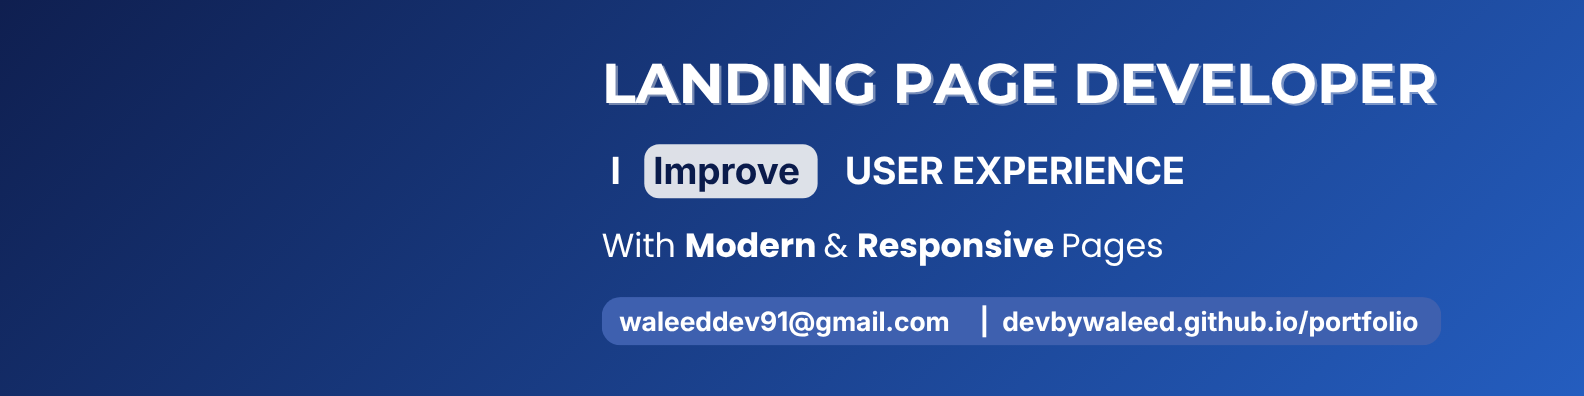
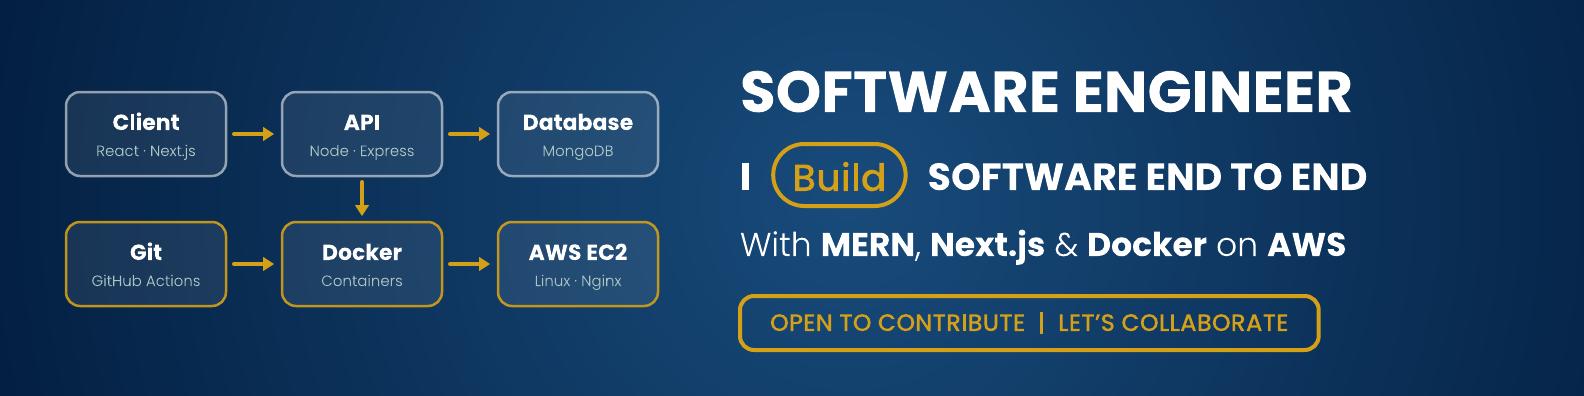
Update profile for latest projects

diff --git a/README.md b/README.md
@@ -1,115 +1,148 @@
-<img src="github-banner.png" alt="Banner Image"/> 
-
+<img src="github-banner.png" alt="Banner Image"/>
 
 <p align="center">
-  <img src="https://readme-typing-svg.herokuapp.com?font=Fira+Code&size=28&duration=3500&pause=500&color=00F0FF&center=true&vCenter=true&width=700&lines=Hi+%F0%9F%91%8B+I'm+Waleed+Ahmed;Frontend+Developer+%F0%9F%92%BB;Freelancer+%F0%9F%9A%80;Turning+Ideas+To+Reality" alt="Typing Animation" />
+  <picture>
+    <source media="(prefers-color-scheme: dark)" srcset="https://readme-typing-svg.herokuapp.com?font=Fira+Code&size=28&duration=3500&pause=500&color=00F0FF&center=true&vCenter=true&width=800&lines=Hi+%F0%9F%91%8B+I'm+Waleed+Ahmed;Software+Engineer+%F0%9F%9B%A0%EF%B8%8F;I+design,+build+and+deploy+full+stack+apps;I+solve+problems+with+DSA+%F0%9F%A7%A0">
+    <img src="https://readme-typing-svg.herokuapp.com?font=Fira+Code&size=28&duration=3500&pause=500&color=0E7490&center=true&vCenter=true&width=800&lines=Hi+%F0%9F%91%8B+I'm+Waleed+Ahmed;Software+Engineer+%F0%9F%9B%A0%EF%B8%8F;I+design,+build+and+deploy+full+stack+apps;I+solve+problems+with+DSA+%F0%9F%A7%A0" alt="Typing Animation" />
+  </picture>
 </p>
 
-<h3 align="center">Solving real-world problems by responsive and modern web experiences 🌐</h3>
+<h3 align="center">Turning real-world problems into reliable, deployed software</h3>
 
 ---
 
-### ✨ About Me
+### 👨💻 About Me
 
-Hi! I'm **Waleed Ahmad**, a **Frontend Developer & Freelancer from Pakistan 🇵🇰**.  
-I specialize in creating **responsive websites, interactive UIs, and optimized user experiences**.  
-I’m currently improving my skills in **React, Tailwind CSS, and modern JavaScript frameworks** to deliver scalable and professional web solutions.  
+I'm **Waleed Ahmed**, a **Software Engineering student at Virtual University of Pakistan** (Lahore, Pakistan 🇵🇰).
+
+- 🏗 I build **complete MERN and Next.js products**: database design, REST APIs, real-time features and polished interfaces
+- 🐳 I containerize apps with **Docker** and deploy them on **AWS EC2**
+- 🧩 I practice **data structures and algorithms** regularly and have completed the **Blind 75**
+- 🚀 About to start my **Final Year Project**
 
 ---
 
-### 🚀 Skills / Tech Stack
+### 🧰 Tech Stack
 
-<p align="center">
-  <img src="https://img.shields.io/badge/HTML5-E34F26?style=for-the-badge&logo=html5&logoColor=white"/> 
-  <img src="https://img.shields.io/badge/CSS3-1572B6?style=for-the-badge&logo=css3&logoColor=white"/> 
-  <img src="https://img.shields.io/badge/Bootstrap-563D7C?style=for-the-badge&logo=bootstrap&logoColor=white"/> 
-  <img src="https://img.shields.io/badge/Tailwind_CSS-38B2AC?style=for-the-badge&logo=tailwind-css&logoColor=white"/> 
-  <img src="https://img.shields.io/badge/JavaScript-F7DF1E?style=for-the-badge&logo=javascript&logoColor=black"/> 
-  <img src="https://img.shields.io/badge/React-61DAFB?style=for-the-badge&logo=react&logoColor=black"/> 
-  <img src="https://img.shields.io/badge/Python-3776AB?style=for-the-badge&logo=python&logoColor=white"/> 
-  <img src="https://img.shields.io/badge/Git-F05032?style=for-the-badge&logo=git&logoColor=white"/> 
-  <img src="https://img.shields.io/badge/GitHub-100000?style=for-the-badge&logo=github&logoColor=white"/> 
+**Languages**
+
+<p>
+  <img src="https://img.shields.io/badge/TypeScript-3178C6?style=for-the-badge&logo=typescript&logoColor=white"/>
+  <img src="https://img.shields.io/badge/JavaScript-F7DF1E?style=for-the-badge&logo=javascript&logoColor=black"/>
+  <img src="https://img.shields.io/badge/Python-3776AB?style=for-the-badge&logo=python&logoColor=white"/>
+</p>
+
+**Frontend**
+
+<p>
+  <img src="https://img.shields.io/badge/React-61DAFB?style=for-the-badge&logo=react&logoColor=black"/>
+  <img src="https://img.shields.io/badge/Next.js-000000?style=for-the-badge&logo=nextdotjs&logoColor=white"/>
+  <img src="https://img.shields.io/badge/Redux-764ABC?style=for-the-badge&logo=redux&logoColor=white"/>
+  <img src="https://img.shields.io/badge/Tailwind_CSS-38B2AC?style=for-the-badge&logo=tailwind-css&logoColor=white"/>
+</p>
+
+**Backend and Database**
+
+<p>
+  <img src="https://img.shields.io/badge/Node.js-339933?style=for-the-badge&logo=nodedotjs&logoColor=white"/>
+  <img src="https://img.shields.io/badge/Express.js-000000?style=for-the-badge&logo=express&logoColor=white"/>
+  <img src="https://img.shields.io/badge/Socket.IO-010101?style=for-the-badge&logo=socketdotio&logoColor=white"/>
+  <img src="https://img.shields.io/badge/MongoDB-47A248?style=for-the-badge&logo=mongodb&logoColor=white"/>
+  <img src="https://img.shields.io/badge/Redis-DC382D?style=for-the-badge&logo=redis&logoColor=white"/>
+  <img src="https://img.shields.io/badge/Supabase-3FCF8E?style=for-the-badge&logo=supabase&logoColor=white"/>
+  <img src="https://img.shields.io/badge/Cloudinary-3448C5?style=for-the-badge&logo=cloudinary&logoColor=white"/>
+  <!-- <img src="https://img.shields.io/badge/Prisma-2D3748?style=for-the-badge&logo=prisma&logoColor=white"/> -->
+</p>
+
+**DevOps and Tools**
+
+<p>
+  <img src="https://img.shields.io/badge/Docker-2496ED?style=for-the-badge&logo=docker&logoColor=white"/>
+  <img src="https://img.shields.io/badge/AWS_EC2-FF9900?style=for-the-badge&logo=amazonec2&logoColor=white"/>
+  <img src="https://img.shields.io/badge/Linux-FCC624?style=for-the-badge&logo=linux&logoColor=black"/>
+  <img src="https://img.shields.io/badge/Nginx-009639?style=for-the-badge&logo=nginx&logoColor=white"/>
+  <img src="https://img.shields.io/badge/GitHub_Actions-2088FF?style=for-the-badge&logo=githubactions&logoColor=white"/>
+  <img src="https://img.shields.io/badge/Git-F05032?style=for-the-badge&logo=git&logoColor=white"/>
+  <img src="https://img.shields.io/badge/Vercel-000000?style=for-the-badge&logo=vercel&logoColor=white"/>
+  <img src="https://img.shields.io/badge/Render-46E3B7?style=for-the-badge&logo=render&logoColor=black"/>
+  <img src="https://img.shields.io/badge/Netlify-00C7B7?style=for-the-badge&logo=netlify&logoColor=white"/>
+  <img src="https://img.shields.io/badge/Postman-FF6C37?style=for-the-badge&logo=postman&logoColor=white"/>
 </p>
 
 ---
 
 ### 💼 Featured Projects
 
-| Project | Description | Tech Stack |
-|----------|--------------|------------|
-| 🌐 [Portfolio Website](https://devbywaleed.github.io/portfolio/) | Showcases my work, skills, and client projects in a modern layout. | HTML5, CSS3, Bootstrap-Icons, JS |
-| 🔍 [RepoScanner](https://devbywaleed.github.io/RepoScanner/) | A responsive web app to scan github repository for specific file. | HTML5, CSS3, JS |
-| 🌐 [LMS Clone](https://devbywaleed.github.io/lms-clone/) | A responsive clone of LMS login page of Virtual University. | HTML5, TailwindCSS |
-| 💻 [Python Projects](https://github.com/devByWaleed/py-projects/) | Repository of Python Projects. | PF, PIP, OOP, DSA |
+| Project | What it does | Tech Stack | Links |
+|---------|--------------|------------|-------|
+| 🎓 **Skillory** | Full stack LMS with expert-led courses, payments and real-time features | Next.js, Node.js, Express, MongoDB, Socket.IO, Cloudinary, Stripe | [Live](https://skillory-topaz.vercel.app) · [Code](https://github.com/devbywaleed/skillory) |
+| 🛒 **Zenvio** | Multi-vendor e-commerce marketplace with real-time features and cloud image uploads | React, Node.js, Express, MongoDB, Socket.IO, Cloudinary, Stripe | [Live](https://zenvio-six.vercel.app) · [Code](https://github.com/devbywaleed/e-shop) |
+| 🥦 **GreenCart** | Online grocery store with product management, checkout and payments | React, Node.js, Express, MongoDB, Cloudinary, Stripe | [Live](https://grocery-eta-six.vercel.app) · [Code](https://github.com/devbywaleed/greencart) |
+| 🐳 **Dockerized MERN on AWS EC2** | Containerized MERN app deployed on EC2 with environment and server setup | Docker, AWS EC2, Linux, Node.js, MongoDB, Supabase | [Live](http://ec2-51-21-182-234.eu-north-1.compute.amazonaws.com:5173) · [Code](https://github.com/devbywaleed/real-estate) |
+| 🌐 **Portfolio** | Personal site with case studies for my projects | Next.js, TypeScript, Tailwind CSS | [Live](https://waleed-code.netlify.app) · [Code](https://github.com/devbywaleed/waleed-dev) |
+
+> 📂 Each repository has an architecture diagram in its README. Full case studies are on my [portfolio](https://waleed-code.netlify.app).
 
 ---
 
-### 🧠 Currently Learning / Focus
+### 🎯 Currently Focused On
 
-- Advanced **React** (hooks, context, and optimization)  
-- **Freelance web project management** & client handling  
-- **UI/UX design** and responsive principles  
-- Exploring **JavaScript frameworks** and **API integration**  
+- 🎓 Planning and building my **Final Year Project**
+- 🧩 Strengthening **DSA and problem solving** through daily practice
+- ☁ Going deeper into **Docker, AWS and deployment pipelines**
+- 🔷 Writing more of my backend and frontend in **TypeScript**
 
 ---
 
-### 🎉 Fun Facts About Me
+### 🧩 Problem Solving
 
 <p align="center">
-  <img src="https://img.shields.io/badge/Tech%20Explorer-%E2%9C%A8-orange?style=for-the-badge"/> 
-  <img src="https://img.shields.io/badge/Freelancer-%F0%9F%9A%80-blue?style=for-the-badge"/> 
-  <img src="https://img.shields.io/badge/Critical%20Thinker-%F0%9F%A7%A0-000000?style=for-the-badge"/> 
-  <img src="https://img.shields.io/badge/Problem%20Solver-%F0%9F%A7%A9-green?style=for-the-badge"/> 
+  <a href="https://leetcode.com/u/solveWithWaleed/">
+    <img src="https://leetcard.jacoblin.cool/solveWithWaleed?theme=dark&font=Fira%20Code&ext=heatmap" alt="LeetCode Stats"/>
+  </a>
 </p>
 
-- 💡 I love building creative and useful digital solutions.  
-- 🧩 Constantly learning and improving every single day.  
-- 🧠 Constantly gaining new ideas to solve real-world problems.
+- ✅ Completed the **Blind 75**
+- 🏆 **LeetCode Capstone Task:** keyword finding plus 4 unseen problems alongside 3 already-solved ones ([View Proof](https://github.com/devByWaleed/leetcode/tree/main/Wiki/CAPSTONE-1))
+- 📂 My own solutions: [LeetCode](https://github.com/devByWaleed/leetcode) · [CSES](https://github.com/devByWaleed/CSES)
 
 ---
 
-### 💬 Daily Inspiration  
-
-<p align="center">
-  <img src="https://readme-typing-svg.herokuapp.com?font=Fira+Code&size=22&duration=4000&pause=1000&color=00F0FF&center=true&vCenter=true&width=920&lines=Programming+is+Thinking,+Not+Typing.;Success+is+Not+Final,+Failure+is+Not+Fatal.;Think+First,+Then+Code." alt="Daily Inspiration Typing Animation"/>
-</p>
-
----
-
-### 📊 GitHub Stats & Achievements
+### 📊 GitHub Stats
 
 <p align="center">
   <img src="https://github-readme-stats.vercel.app/api?username=devByWaleed&show_icons=true&theme=radical&hide_border=false&count_private=true&include_all_commits=true" height="180"/>
-</p>
-
-<p align="center">
-  <img src="https://github-profile-trophy.vercel.app/?username=devByWaleed&theme=radical&no-frame=true&margin-w=15&margin-h=15" height="160"/>
+  <img src="https://github-readme-stats.vercel.app/api/top-langs/?username=devByWaleed&layout=compact&theme=radical&hide_border=false" height="180"/>
 </p>
 
 ---
 
-### 🤝 Freelance & Collaboration
+### 💬 Daily Reminder
 
-I’m open to **freelance projects** and **collaborations** on web development.  
-Let’s work together to build something impactful and creative 🌟  
+<p align="center">
+  <picture>
+    <source media="(prefers-color-scheme: dark)" srcset="https://readme-typing-svg.herokuapp.com?font=Fira+Code&size=22&duration=4000&pause=1000&color=00F0FF&center=true&vCenter=true&width=920&lines=Programming+is+Thinking,+Not+Typing.;Think+First,+Then+Code.;Ship+it,+then+make+it+better.">
+    <img src="https://readme-typing-svg.herokuapp.com?font=Fira+Code&size=22&duration=4000&pause=1000&color=0E7490&center=true&vCenter=true&width=920&lines=Programming+is+Thinking,+Not+Typing.;Think+First,+Then+Code.;Ship+it,+then+make+it+better." alt="Daily Reminder Typing Animation"/>
+  </picture>
+</p>
+
+---
+
+### 🤝 Let's Connect
+
+I'm open to **software engineering opportunities, internships and collaborations**.
 
 📫 Reach me at: **waleeddev91@gmail.com**
 
----
-
-### 🔗 Connect with Me
-
 <p align="center">
   <a href="mailto:waleeddev91@gmail.com"><img src="https://img.shields.io/badge/Email-D14836?style=for-the-badge&logo=gmail&logoColor=white"/></a>
+  <a href="https://waleed-code.netlify.app"><img src="https://img.shields.io/badge/Portfolio-00F0FF?style=for-the-badge&logo=googlechrome&logoColor=black"/></a>
+  <a href="https://waleed-code.netlify.app/Waleed-Ahmed-CV.pdf"><img src="https://img.shields.io/badge/Resume-0F172A?style=for-the-badge&logo=readthedocs&logoColor=white"/></a>
   <a href="https://linkedin.com/in/waleed-webdev"><img src="https://img.shields.io/badge/LinkedIn-0077B5?style=for-the-badge&logo=linkedin&logoColor=white"/></a>
+  <a href="https://leetcode.com/u/solveWithWaleed"><img src="https://img.shields.io/badge/LeetCode-F8A222?style=for-the-badge&logo=leetcode&logoColor=black"/></a>
   <a href="https://www.hackerrank.com/profile/waleed_dev404"><img src="https://img.shields.io/badge/HackerRank-2EC866?style=for-the-badge&logo=hackerrank&logoColor=white"/></a>
-  <a href="https://leetcode.com/u/solveWithWaleed/"><img src="https://img.shields.io/badge/LeetCode-F8A222?style=for-the-badge&logo=leetcode&logoColor=black"/></a>
-  <a href="https://www.fiverr.com/s/dDbrNP8"><img src="https://img.shields.io/badge/Fiverr-2EC866?style=for-the-badge&logo=fiverr&logoColor=white"/></a>
-  <a href="https://www.freelancer.com/u/waleedcool1857"><img src="https://img.shields.io/badge/Freelancer-30B4FE?style=for-the-badge&logo=freelancer&logoColor=white"/></a>
-  <a href="https://www.facebook.com/profile.php?id=61567654645027"><img src="https://img.shields.io/badge/Facebook-415CA0?style=for-the-badge&logo=facebook&logoColor=white"/></a>
 </p>
 
 ---
 
-⭐ **Let’s create something impactful together!**  
-If you like my work, consider giving a ⭐ on my projects — it motivates me to keep building. 🚀
+⭐ If you like my work, consider giving a star to my projects. It motivates me to keep building. 🚀
